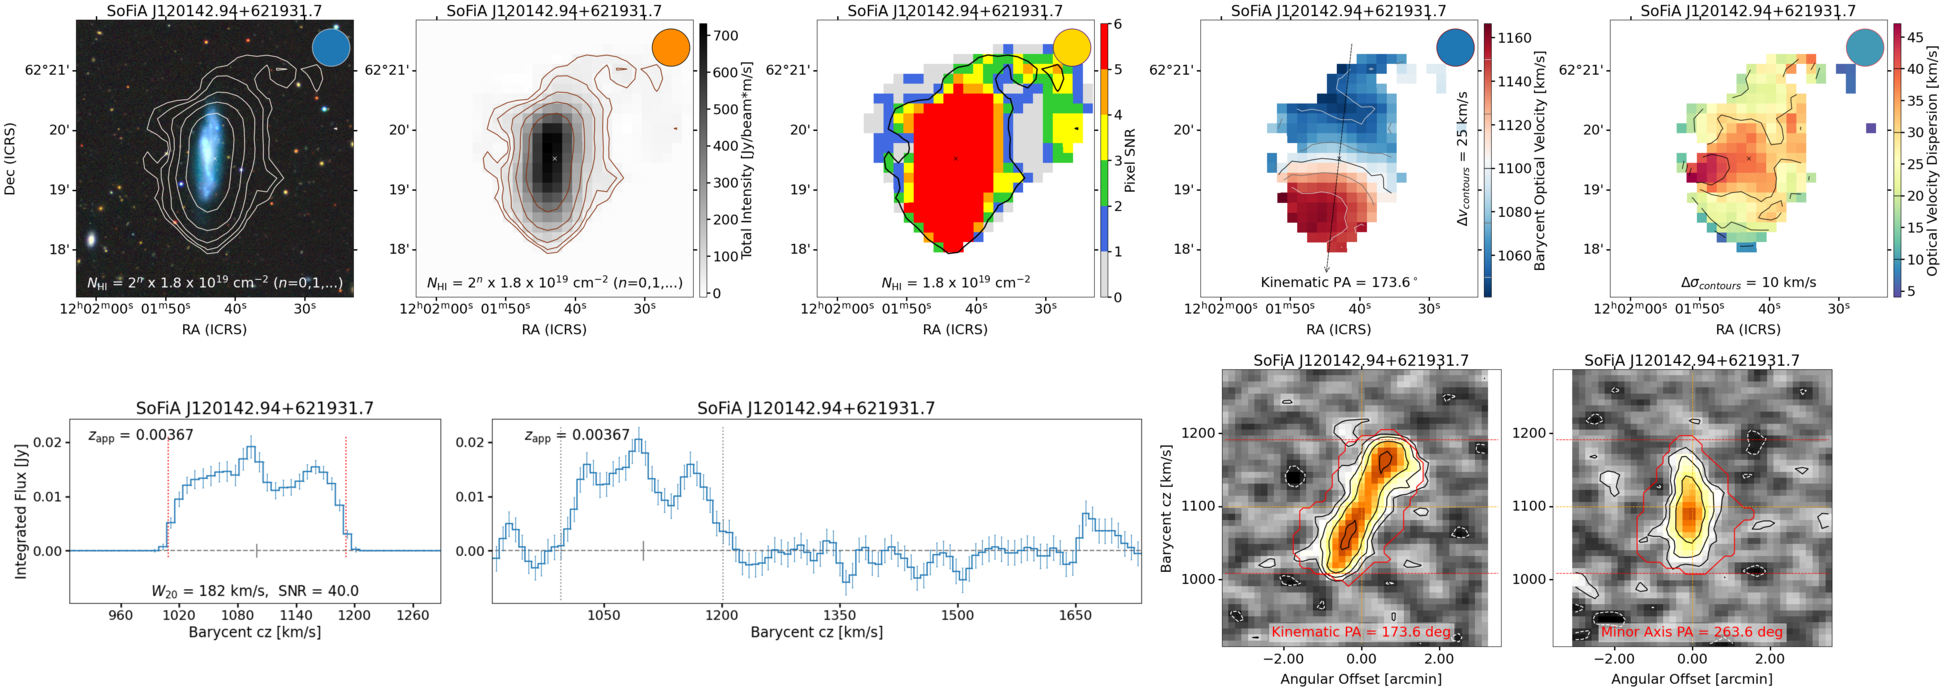
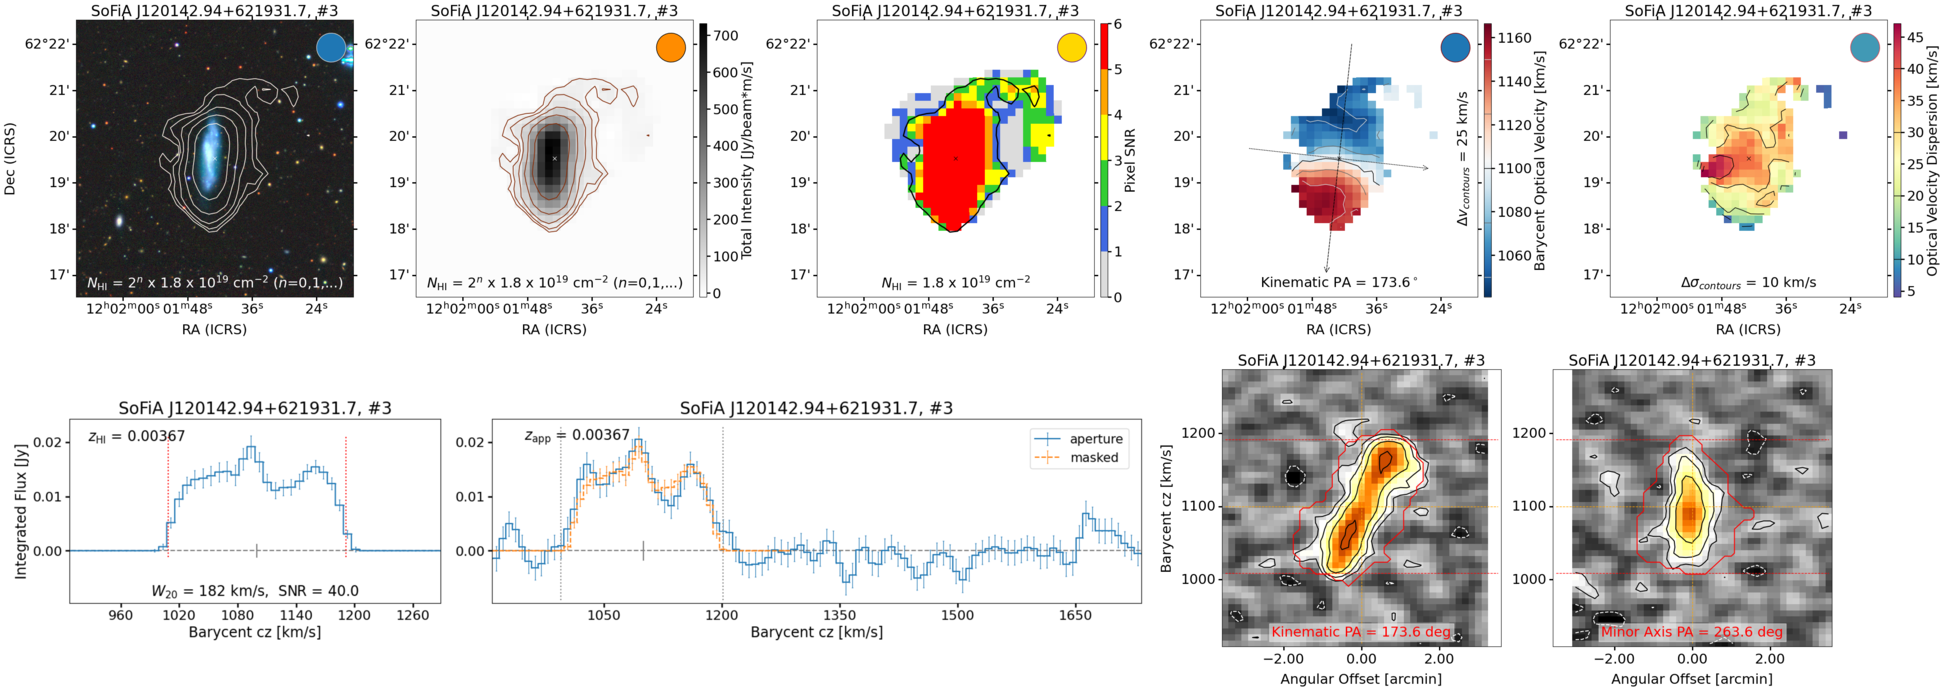
Update images in README.md

diff --git a/README.md b/README.md
@@ -8,8 +8,7 @@ Introduction
 SIP takes a SoFiA generated source catalog and produce images for publication or quick inspection.  Images include spectral line total intensity contours overlaid on multiwavelength images, spectral line moment maps, pixel-by-pixel SNR maps, pv-diagrams with source mask, masked spectra, and aperture spectra using the 2D projection of the source mask.  SIP also generates an image of the aperture and masked spectrum overplotted.
 
 ![](docs/sofia_test_output_3_combo.png)
-<!-- ![](docs/sofia_test_output_3_specboth.png) -->
-<img src="docs/sofia_test_output_3_specboth.png" alt="drawing" width="35%"/>
+<!-- <img src="docs/sofia_test_output_3_specboth.png" alt="drawing" width="35%"/> -->
 
 Requirements
 ------------
